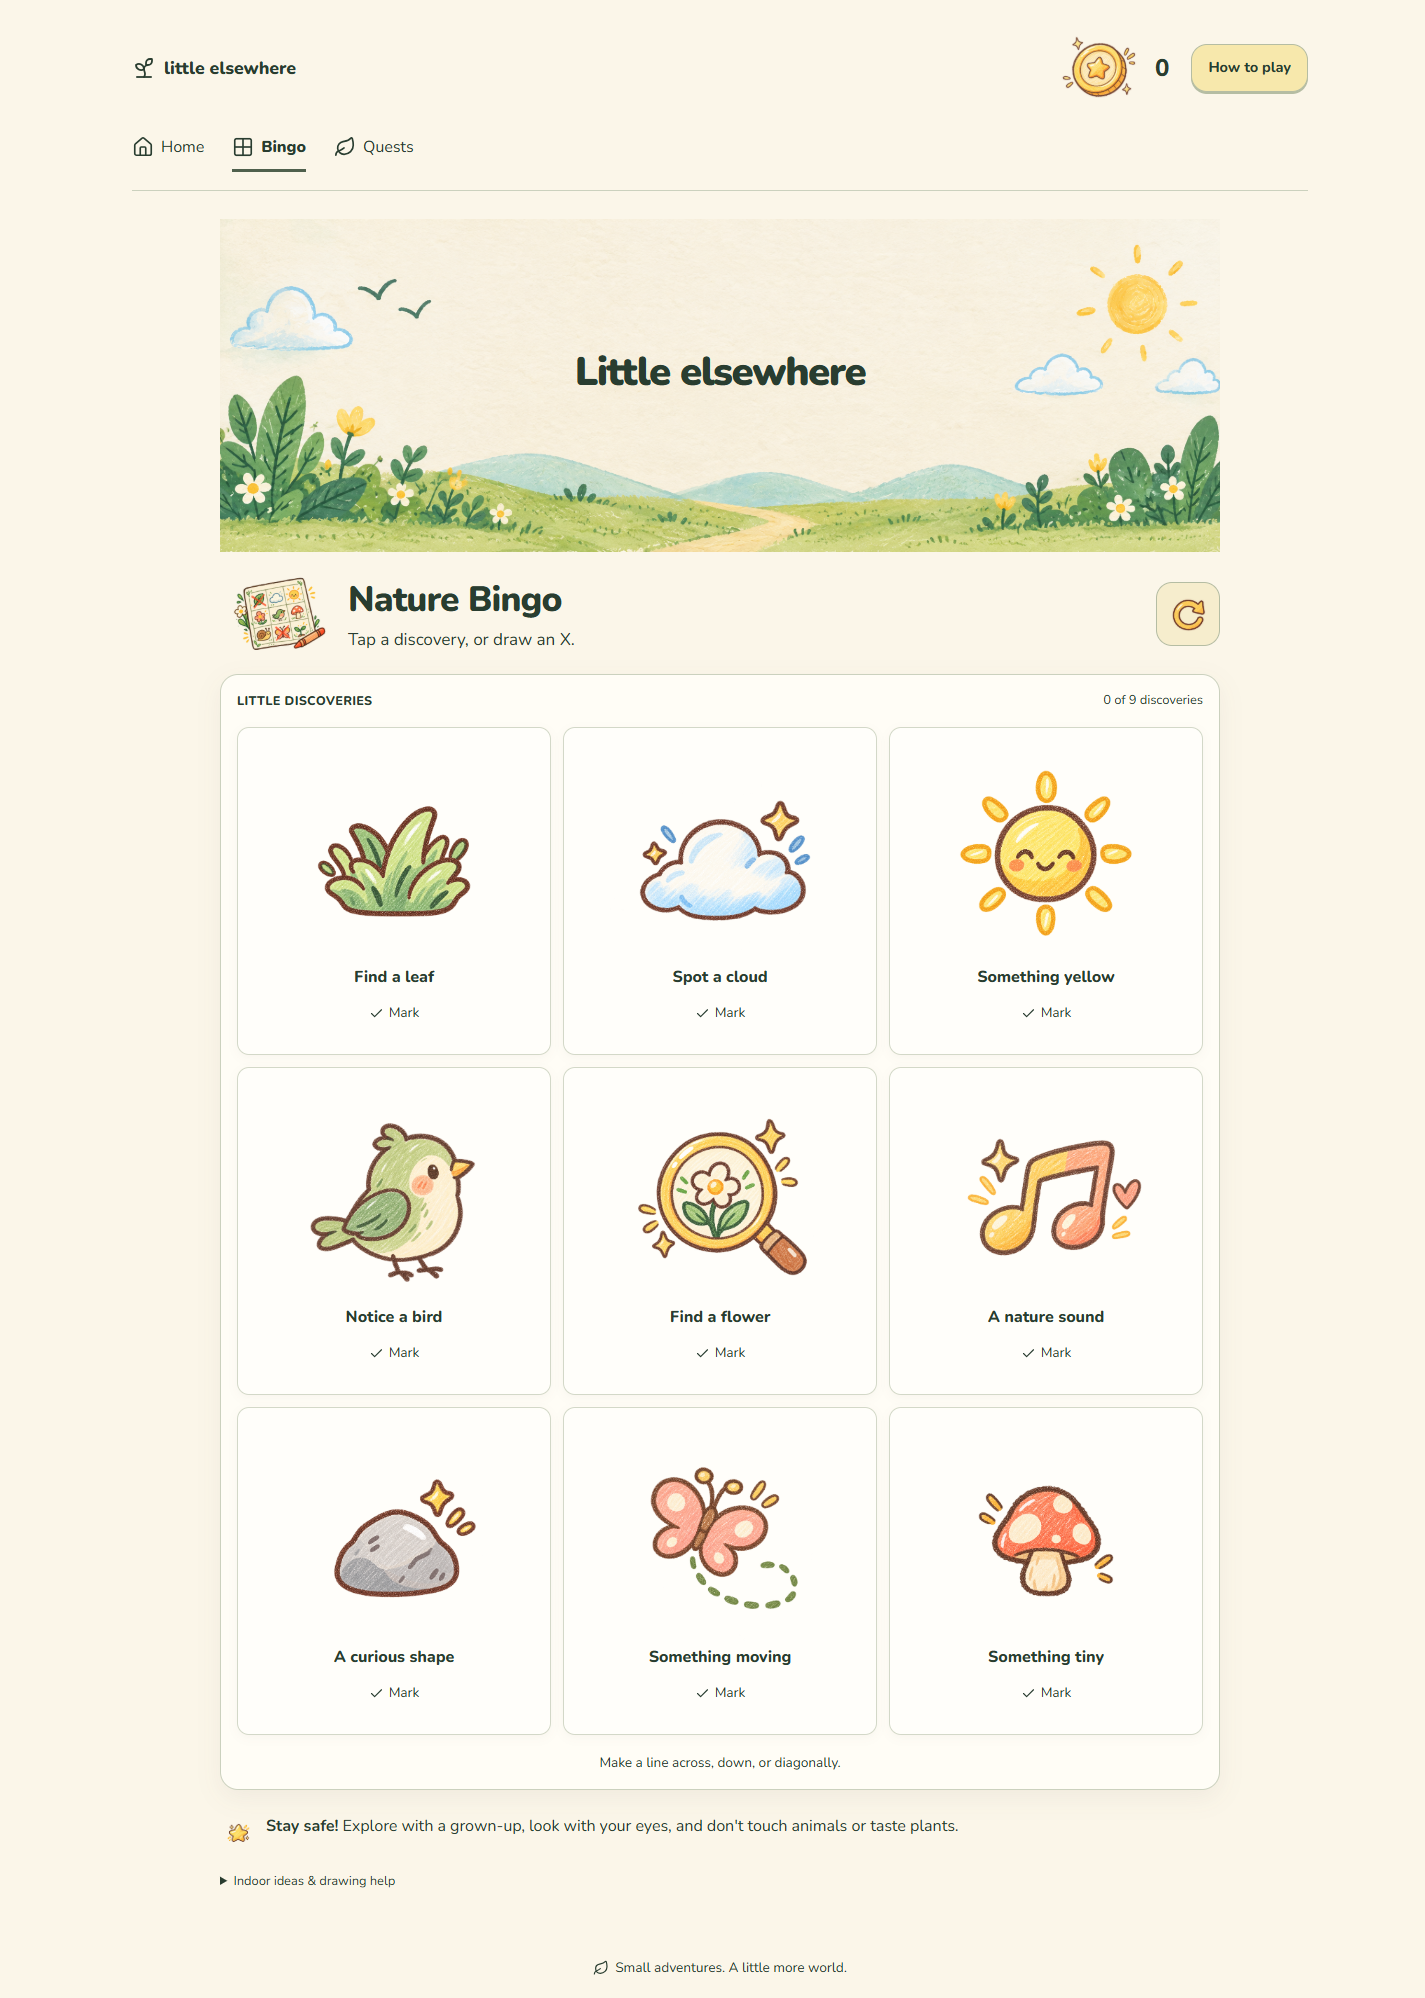
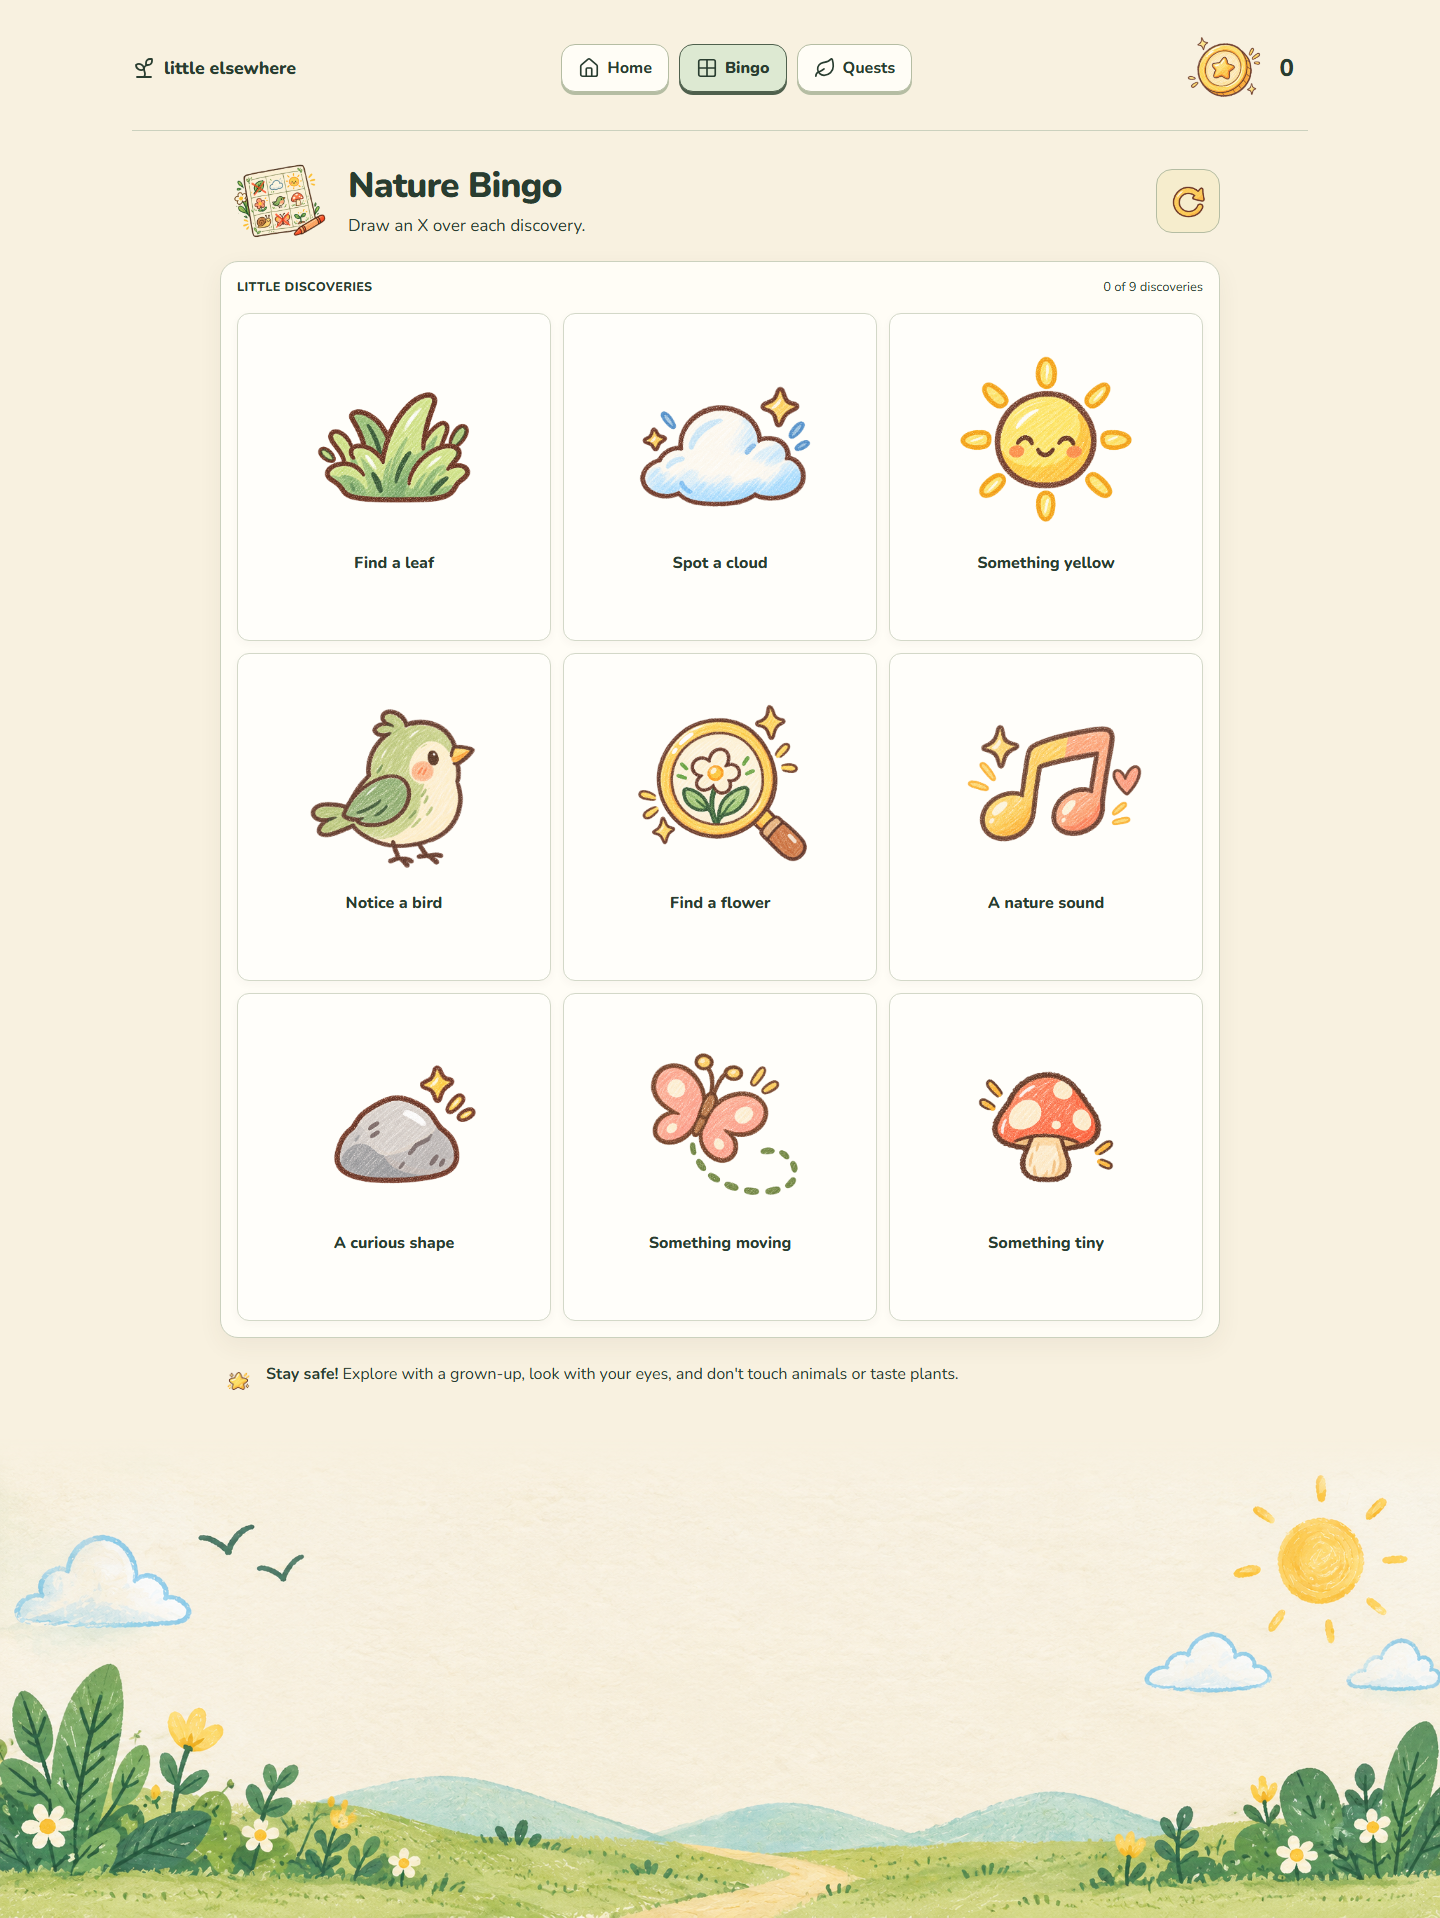
updated README.md

diff --git a/README.md b/README.md
@@ -12,7 +12,7 @@
 </p>
 
 <p align="center">
-  <a href="public/screenshots/home-desktop.png"><img src="public/screenshots/home-desktop.png" alt="Updated Little Elsewhere homepage with illustrated banner, explorer profile, mood choices, Bingo and Quest invitations, featured adventure, journal, and backpack" width="900" /></a>
+  <a href="public/screenshots/home-desktop.png"><img src="public/screenshots/home-desktop.png" alt="Updated Little Elsewhere homepage with button navigation, illustrated footer, explorer profile, mood choices, Bingo and Quest invitations, featured adventure, journal, and backpack" width="900" /></a>
 </p>
 
 ## Why Little Elsewhere?
@@ -32,9 +32,9 @@ Little Elsewhere gives children a gentle prompt, then a place to record what the
 | **Little Quests** | Explore eight activities with a Choose / Explore / Collect trail, directions, and indoor or adapted alternatives. |
 | **Coins** | Collect rewards for a first Bingo line, a first full board, and completed quests. |
 | **Journal and backpack** | Revisit recent adventures, nature finds, and three earned milestones on Home. |
-| **A helping hand** | Reopen the play guide, read friendly safety reminders, and use touch or keyboard controls. |
+| **A helping hand** | Read brief play instructions in Home settings, follow friendly safety reminders, and use touch or keyboard controls. |
 
-A shared illustrated banner ties the pages together. Desktop layouts give the artwork room to breathe; mobile layouts stack naturally and keep navigation within reach.
+A full-width illustrated footer blends into the warm sky-coloured background on every page. Desktop layouts give the artwork room to breathe; mobile layouts stack naturally and keep navigation within reach.
 
 ### A little recognition, without an endless loop
 
@@ -67,7 +67,7 @@ flowchart TD
 
 ## A peek inside
 
-Actual browser captures of the current interface, refreshed **14 October 2026**. The screenshots use the default explorer, with Calm selected and no completed activities.
+Actual browser captures of the current interface, refreshed **16 October 2026**. The screenshots use the default explorer, with Calm selected and no completed activities.
 
 | Nature Bingo | Little Quests |
 | :---: | :---: |
@@ -82,7 +82,7 @@ Actual browser captures of the current interface, refreshed **14 October 2026**.
   <tr><th>Home</th><th>Bingo</th><th>Quests</th></tr>
   <tr>
     <td valign="top"><a href="public/screenshots/home-mobile.png"><img src="public/screenshots/home-mobile.png" alt="Mobile Home with explorer profile, mood choices, journal, and backpack" width="260" /></a></td>
-    <td valign="top"><a href="public/screenshots/bingo-mobile.png"><img src="public/screenshots/bingo-mobile.png" alt="Mobile Bingo with large activity illustrations, Mark controls, and bottom navigation" width="260" /></a></td>
+    <td valign="top"><a href="public/screenshots/bingo-mobile.png"><img src="public/screenshots/bingo-mobile.png" alt="Mobile Bingo with large activity illustrations, drawing controls, top button navigation, and an illustrated footer" width="260" /></a></td>
     <td valign="top"><a href="public/screenshots/quests-mobile.png"><img src="public/screenshots/quests-mobile.png" alt="Mobile Quests stacked into a single column with illustrated progress trails" width="260" /></a></td>
   </tr>
 </table>
@@ -126,7 +126,7 @@ The app uses one reducer and React context for profile choices, Bingo, quests, a
 
 | Folder | Responsibility |
 | --- | --- |
-| `src/pages` and `src/components` | Pages, shared banner, controls, profile, journal, and backpack. |
+| `src/pages` and `src/components` | Pages, shared footer, controls, profile, journal, and backpack. |
 | `src/features` | Bingo drawing and line detection, quest cards, and reward rules. |
 | `src/data` | Quest definitions, Bingo activities, and explorer portraits. |
 | `src/app` and `src/persistence` | State transitions, routing, validation, migrations, and browser saves. |
